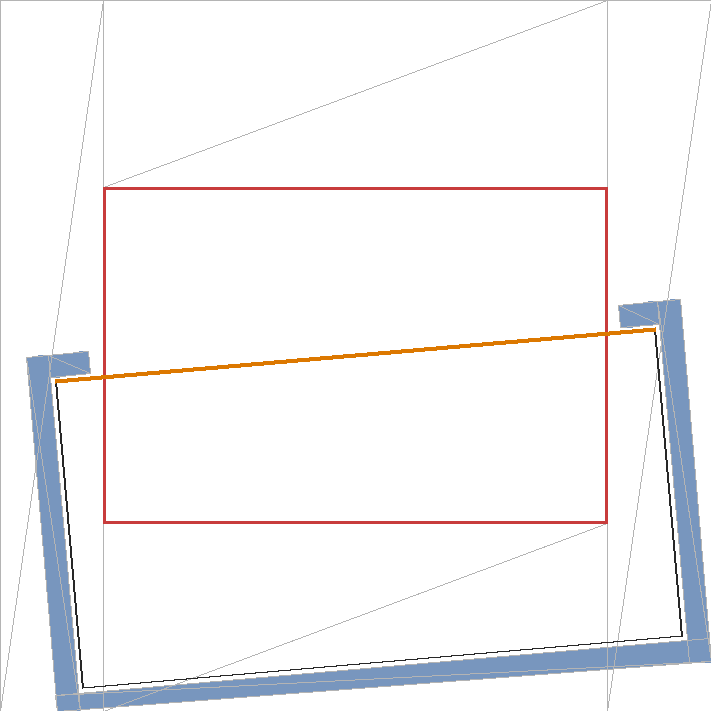
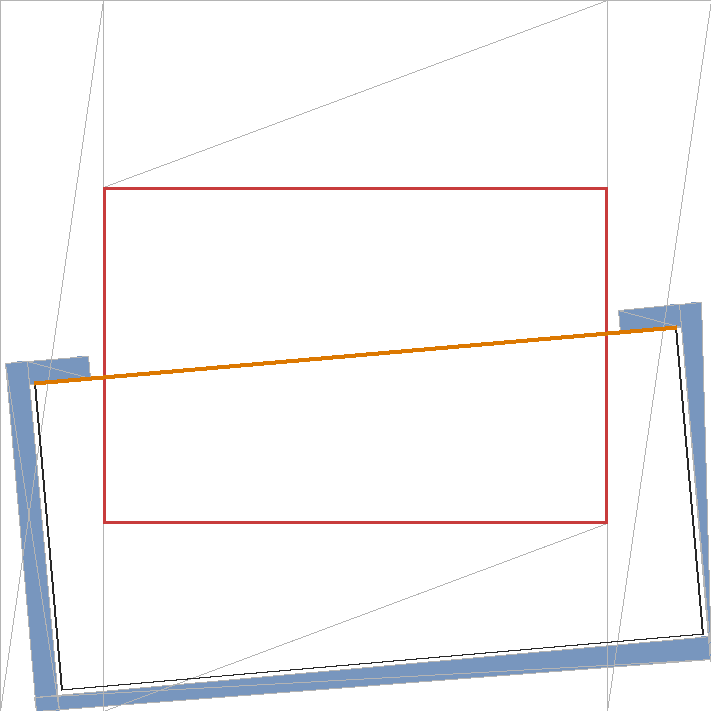
Take any opaque strip in the PSF target, not just a blade
Register the strip by its optical edge against a fence rather than by its
width against a back wall, so anything from about 20 to 22 mm wide works
without a new part: a double-edge razor blade, a strip of black developed
film, or black silicone tape trimmed to width.

The fence exists only outside the aperture, so across the open area the edge
is still untouched. The pocket is sized to 22 mm, which is a double-edge
blade -- the widest thing it is meant to take.

Black developed film is worth calling out as second best and is free: it is
0.14 mm by definition, opaque at D > 3, and its long edge is slit to about
+-10 um because it has to run through a camera. Silicone tape is listed as
usable but doubtful, being ~0.5 mm, compliant, and rounded at the slit. That
doubt is cheap to settle: the holder's own mask edge appears in every scan
and measured 2.98 px, so a strip that reads much softer than that has
diagnosed itself.

Changed region(s): [[0.0, 0.4023, 1.0, 1.0]]

diff --git a/tools/psf-target/make_target.py b/tools/psf-target/make_target.py
@@ -7,23 +7,41 @@ The quantity being measured is a ~2 px transition at 3600 dpi, about 14 um.
 For the target not to dominate the measurement its edge has to be straight to
 well under that at spatial periods shorter than about a millimetre -- slower
 wander than that the edge tracker follows out, roughness faster than it does
-not.  FDM leaves roughly 100 um of edge roughness, which is 14 px: seven times
-the feature.  So nothing printed is used as an optical edge.
+not.  FDM leaves roughly 100 um of edge roughness, which is 14 px: seven
+times the feature.  So nothing printed is used as an optical edge.
 
-Instead the print is a carrier for a double-edge safety razor blade:
-43 x 22 mm, 0.1 mm thick, flat, no spine, with two ground edges straight to
-well under a micron.  The print does what printing is good at -- outline,
-height, repeatable angle -- and the blade does the optics.
+Instead the print is a carrier for a strip of opaque material whose own
+factory edge does the optics.  In descending order of how good that edge is:
+
+  black developed film   0.14 mm, slit to about +-10 um because it has to
+                         run through a camera; opaque at D > 3.  Best.
+  double-edge razor      0.10 mm, ground straight to under a micron, but
+                         needs a blade to hand.
+  black silicone tape    ~0.5 mm, slit but soft, and the edge tends to be
+                         rounded rather than square.  Worth trying, and the
+                         scan says immediately whether it was good enough.
+
+Every scan also contains the holder's own mask edge, which measures about
+3 px.  If the strip's edge comes back much softer than that, the strip is
+the limit and not the scanner.
+
+Registration
+------------
+The strip is located by its *optical* edge butting against a fence, not by
+its width against a back wall, so any strip from about 20 to 25 mm wide
+works without changing the part.  The fence only exists outside the aperture,
+where it cannot occlude anything that gets measured; across the open area the
+edge is free.
 
 Geometry
 --------
 Outline follows a 35 mm slide mount, 50.8 mm square, with a 36 x 24 mm
-aperture.  The blade lies on the base plate, so its underside sits at
-`base` mm above the mount's bottom face; print the variants to find which
-height the scanner actually focuses on.  Ridges around the blade form an
-open pocket: all additive, no overhangs, nothing thinner than the nozzle.
+aperture.  The strip lies on the base plate, so its underside sits at `base`
+mm above the mount's bottom face; print the variants to find which height the
+scanner actually focuses on.  Ridges around it form an open pocket: all
+additive, no overhangs, nothing thinner than the nozzle.
 
-The blade is tilted off-axis by `tilt` degrees.  This is not cosmetic.  A
+The strip is tilted off-axis by `tilt` degrees.  This is not cosmetic.  A
 rigid edge aligned with the pixel grid gives every scan line the same
 sub-pixel phase, so there is nothing to interleave and the measurement
 collapses.  Film gets away with it only because it bows.
@@ -37,8 +55,10 @@ import struct
 
 MOUNT = 50.8          # slide mount outline, mm
 APER_W, APER_H = 36.0, 24.0
-BLADE_L, BLADE_W = 43.0, 22.0
-BLADE_T = 0.1
+STRIP_L = 46.0        # pocket length along the edge; cut the strip to ~45 mm
+STRIP_W = 22.0        # nominal strip width; the back wall sits behind this.
+                      # 22 mm is a double-edge razor blade, which is the
+                      # widest thing the pocket is meant to take.
 WALL = 1.6            # ridge thickness; 4 passes of a 0.4 mm nozzle
 CLEAR = 0.35          # pocket clearance per side
 RIDGE = 1.0           # ridge height above the base plate
@@ -80,8 +100,8 @@ def bar(theta, u0, u1, v0, v1, z0, z1, half=MOUNT / 2):
     return quad_prism(pts, z0, z1)
 
 
-def build(theta, base):
-    """One carrier: base plate with an aperture, plus the blade pocket."""
+def build(theta, base, strip_w, strip_l):
+    """One carrier: base plate with an aperture, plus the strip pocket."""
     h = MOUNT / 2
     aw, ah = APER_W / 2, APER_H / 2
     tris = []
@@ -92,20 +112,20 @@ def build(theta, base):
     tris += rect(-aw, aw, ah, h, 0, base)
 
     z0, z1 = base, base + RIDGE
-    pu0 = -(BLADE_W + CLEAR)          # pocket spans the blade plus clearance
-    pu1 = CLEAR
-    pv = BLADE_L / 2 + CLEAR
+    pv = strip_l / 2 + CLEAR
+    back = -(strip_w + CLEAR)
 
-    # Spine: sets how far the cutting edge reaches across the aperture.
-    tris += bar(theta, pu0 - WALL, pu0, -pv - WALL, pv + WALL, z0, z1)
-    # Ends: stop the blade sliding along its own edge, and hold the angle.
-    tris += bar(theta, pu0 - WALL, pu1 + WALL, pv, pv + WALL, z0, z1)
-    tris += bar(theta, pu0 - WALL, pu1 + WALL, -pv - WALL, -pv, z0, z1)
-    # Retainers on the cutting-edge side, kept outside the aperture so they
-    # never occlude anything that gets measured.
+    # The fence: what the optical edge is pushed against, so the edge lands at
+    # u = 0 whatever the strip's width.  Kept clear of the aperture, which is
+    # why it comes in two pieces rather than one bar.
     keep = (APER_H if abs(math.cos(math.radians(theta))) > 0.5 else APER_W) / 2 + 1.0
-    tris += bar(theta, pu1, pu1 + WALL, keep, pv, z0, z1)
-    tris += bar(theta, pu1, pu1 + WALL, -pv, -keep, z0, z1)
+    tris += bar(theta, 0.0, WALL, keep, pv, z0, z1)
+    tris += bar(theta, 0.0, WALL, -pv, -keep, z0, z1)
+    # Back wall: stops the strip drifting away from the fence.
+    tris += bar(theta, back - WALL, back, -pv - WALL, pv + WALL, z0, z1)
+    # Ends: keep it from sliding along its own edge.
+    tris += bar(theta, back - WALL, WALL, pv, pv + WALL, z0, z1)
+    tris += bar(theta, back - WALL, WALL, -pv - WALL, -pv, z0, z1)
     return tris
 
 
@@ -131,17 +151,21 @@ def main():
                     help="degrees off axis; 2-15 is usable, 5 is comfortable")
     ap.add_argument("--base", type=float, default=1.0,
                     help="blade height above the mount's bottom face, mm")
+    ap.add_argument("--strip-width", type=float, default=STRIP_W,
+                    help="nominal strip width in mm; 20-25 all fit")
+    ap.add_argument("--strip-length", type=float, default=STRIP_L,
+                    help="pocket length along the edge, mm")
     ap.add_argument("--out", default=".")
     a = ap.parse_args()
     # theta rotates the blade's across-axis, so the edge itself runs along
     # (-sin theta, cos theta): theta near 0 gives a near-vertical edge.
     for suffix, theta, what in (("v", a.tilt, "near-vertical edge, sensor axis"),
                                 ("h", 90.0 + a.tilt, "near-horizontal edge, feed axis")):
-        tris = build(theta, a.base)
+        tris = build(theta, a.base, a.strip_width, a.strip_length)
         p = f"{a.out}/psf-target-{suffix}-base{a.base:g}.stl"
         write_stl(p, tris, f"PSF target {suffix} tilt {a.tilt} base {a.base}")
         print(f"{p}: {len(tris)} triangles, {what}, "
-              f"edge {a.tilt:g} deg off axis, blade at {a.base:g} mm")
+              f"edge {a.tilt:g} deg off axis, strip floor at {a.base:g} mm")
 
 
 if __name__ == "__main__":

diff --git a/tools/psf-target/check_target.py b/tools/psf-target/check_target.py
@@ -11,7 +11,7 @@ import numpy as np
 from PIL import Image, ImageDraw
 
 MOUNT, APER_W, APER_H = 50.8, 36.0, 24.0
-BLADE_L, BLADE_W = 43.0, 22.0
+STRIP_L, STRIP_W = 46.0, 22.0
 
 
 def read_stl(p):
@@ -54,13 +54,13 @@ def plan(path, theta, base, out):
     # aperture
     d.rectangle([px(-APER_W/2, APER_H/2), px(APER_W/2, -APER_H/2)],
                 outline=(200,60,60), width=3)
-    # where the blade lands, and its cutting edge
+    # where the strip lands, and its optical edge
     c, s = math.cos(math.radians(theta)), math.sin(math.radians(theta))
     def tf(u, vv): return (u*c + vv*(-s), u*s + vv*c)
-    corners = [tf(u, vv) for u, vv in ((0,-BLADE_L/2), (0,BLADE_L/2),
-                                       (-BLADE_W,BLADE_L/2), (-BLADE_W,-BLADE_L/2))]
+    corners = [tf(u, vv) for u, vv in ((0,-STRIP_L/2), (0,STRIP_L/2),
+                                       (-STRIP_W,STRIP_L/2), (-STRIP_W,-STRIP_L/2))]
     d.polygon([px(*p) for p in corners], outline=(40,40,40), width=2)
-    e0, e1 = tf(0, -BLADE_L/2), tf(0, BLADE_L/2)
+    e0, e1 = tf(0, -STRIP_L/2), tf(0, STRIP_L/2)
     d.line([px(*e0), px(*e1)], fill=(220,120,0), width=5)
     im.save(out)
     print("  plan view -> %s  (red = aperture, orange = cutting edge)" % out)

diff --git a/tools/psf-target/README.md b/tools/psf-target/README.md
@@ -26,24 +26,41 @@ A hand-cut piece of flat plastic was tried first and measured a 7.71 px rise
 where the holder's own mask edge in the same scan measured 2.98 px. Edge
 roughness and height error together, not the scanner.
 
-## Why a double-edge blade
+## What to put in it
 
-43 × 22 mm, **0.1 mm thick**, dead flat, no spine, two ground edges, sold
-everywhere for very little. At 0.1 mm it is thinner than film (0.14 mm), so
-whatever height error remains is smaller than real film's own.
+The pocket takes any opaque strip roughly 20–22 mm wide and 45 mm long. In
+descending order of how good the edge is:
 
-Its central slot sits 11 mm from the cutting edge. Measurement only ever uses
-a window of about ±0.3 mm around the edge, so the slot never enters it.
+| strip | thickness | edge | notes |
+|---|---|---|---|
+| Double-edge razor blade | 0.10 mm | < 1 µm | 43 × 22 mm, flat, no spine. Best, and what the pocket is sized for. |
+| Black developed film | 0.14 mm | ~10 µm | A fogged leader or trailer. Slit to camera tolerance. Cut to ~21 mm wide, keeping one factory edge. |
+| Black silicone tape | ~0.5 mm | soft | Trim to ~21 mm. Slit but compliant, and the edge tends to be rounded rather than square. |
+
+A double-edge blade's central slot sits 11 mm from the cutting edge, and
+measurement only ever uses a window of about ±0.3 mm around the edge, so the
+slot never enters it.
+
+The strip is located by its **optical edge** butting against a fence, not by
+its width against the back wall, so width within that range does not matter.
+The fence exists only outside the aperture; across the open area the edge is
+untouched.
+
+Every scan also contains the holder's own mask edge, which measured 2.98 px
+on this scanner. If the strip's edge comes back much softer than that, the
+strip is the limit and not the scanner — so a bad strip diagnoses itself in
+one scan.
 
 ## Printing
 
 ```
-python3 make_target.py --base 1.0          # both orientations
-python3 make_target.py --base 0.7 --tilt 7 # variants
+python3 make_target.py --base 1.0                  # both orientations
+python3 make_target.py --base 0.7 --tilt 7         # variants
+python3 make_target.py --strip-width 25            # untrimmed 1" tape
 ```
 
-Six STLs are checked in, at blade heights 0.7, 1.0 and 1.3 mm. **Print all
-three heights.** A slide mount holds its film somewhere near mid-depth, but
+Six STLs are checked in, at strip-floor heights 0.7, 1.0 and 1.3 mm. **Print
+all three heights.** A slide mount holds its film somewhere near mid-depth, but
 how the scanner's holder references it is not documented anywhere we can
 check — so scan all three and keep whichever gives the sharpest edge. That
 measurement is itself worth having: it says where the focal plane is.
@@ -59,10 +76,11 @@ nozzle has no trouble with it.
 
 ## Use
 
-1. Drop a double-edge blade into the pocket, cutting edge toward the open
-   half of the aperture. **Handle it by the spine.**
-2. If it rattles, a scrap of tape across the spine end holds it. Keep tape
-   out of the aperture.
+1. Lay the strip in the pocket, edge toward the open half of the aperture,
+   and push it against the fence. **Handle a blade by its back, not its
+   edge.**
+2. If it rattles, a scrap of tape across the back holds it. Keep tape out of
+   the aperture.
 3. Load into the slide holder and scan at 3600 dpi, no infrared:
    `nv-cli scan <device> --dpi 3600 -o target.pnm`
 4. `psf-target-v-*` has the edge near vertical and measures the **sensor
